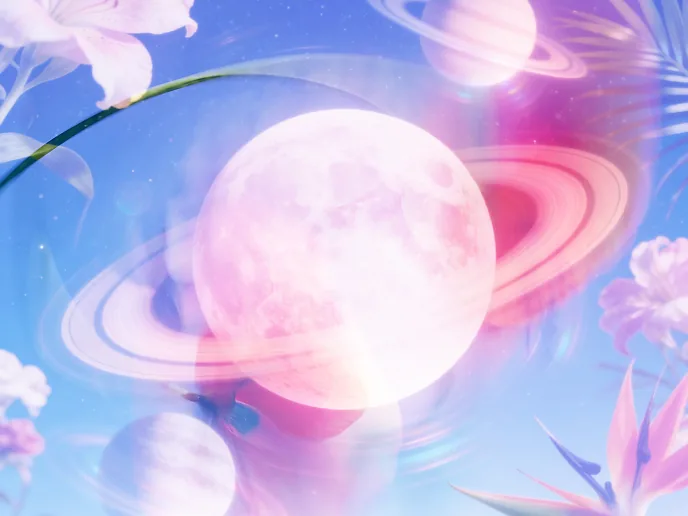
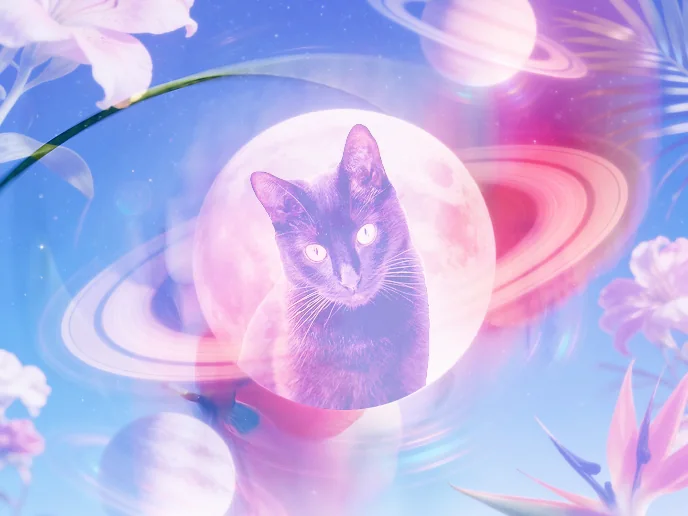
Updated images

Changed region(s): [[0.3663, 0.2481, 0.641, 0.8062], [0.3663, 0.7442, 0.3968, 0.7752]]

diff --git a/website_source/index.html b/website_source/index.html
@@ -260,7 +260,6 @@
     z-index: 1;
   }
 
-  /* sparkle shimmer wrapper over the hero lady */
   .hero-img-lady-wrap {
     position: absolute;
     width: 62%;
@@ -268,22 +267,6 @@
     right: -4%;
     z-index: 1;
     pointer-events: none;
-  }
-  .hero-img-lady-wrap::after {
-    content: '';
-    position: absolute;
-    inset: 0;
-    background:
-      radial-gradient(ellipse at 40% 20%, oklch(95% 0.22 80 / 0.55) 0%, transparent 45%),
-      radial-gradient(ellipse at 70% 55%, oklch(92% 0.20 290 / 0.45) 0%, transparent 45%),
-      radial-gradient(ellipse at 30% 75%, oklch(90% 0.18 350 / 0.4) 0%, transparent 40%);
-    mix-blend-mode: soft-light;
-    animation: hero-shimmer 5s ease-in-out infinite alternate;
-    pointer-events: none;
-  }
-  @keyframes hero-shimmer {
-    0%   { opacity: 0.55; transform: scale(1); }
-    100% { opacity: 0.95; transform: scale(1.02) translateY(-5px); }
   }
 
   /* lady — fills its shimmer wrapper */